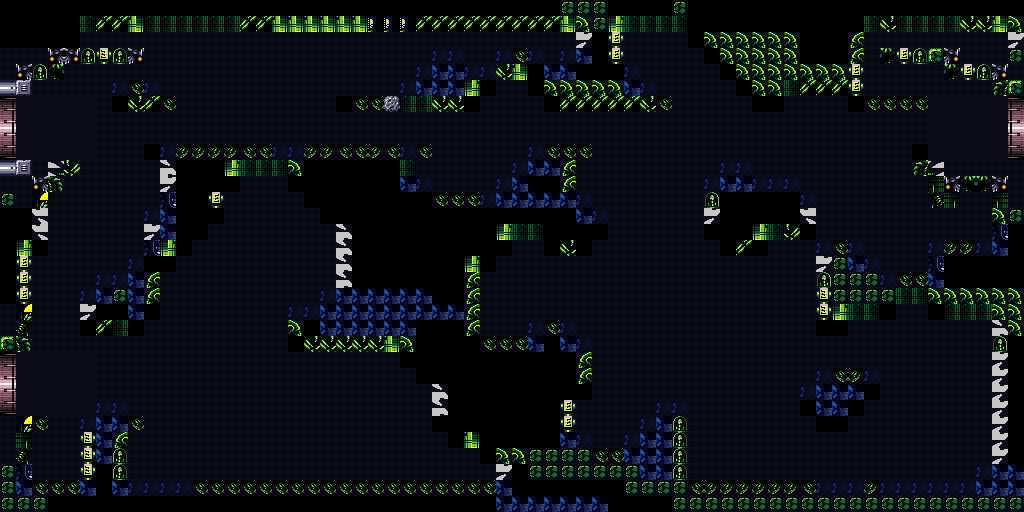
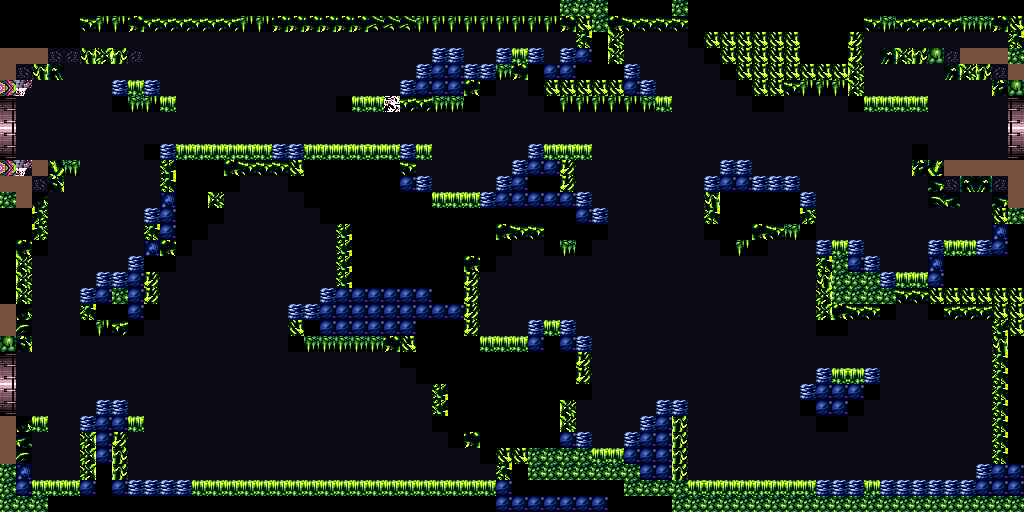
fix kraid room rendering

diff --git a/desktopApp/src/jvmMain/kotlin/com/supermetroid/editor/ui/MapCanvas.kt b/desktopApp/src/jvmMain/kotlin/com/supermetroid/editor/ui/MapCanvas.kt
@@ -292,6 +292,7 @@ fun MapCanvas(
     onRoomSelected: ((RoomInfo) -> Unit)? = null,
     roomKeyboardNavigationEnabled: Boolean = true,
     showItemNames: Boolean = true,
+    highlightItems: Boolean = true,
     showEnemyNames: Boolean = true,
     showFlatSlopeSurfaces: Boolean = true,
     modifier: Modifier = Modifier
@@ -895,10 +896,10 @@ fun MapCanvas(
                                 }
                             }
 
-                            val compositeImage = remember(data, activeOverlays.toSet(), showGrid, scrollDataForOverlay?.contentHashCode(), layer2Data?.contentHashCode(), customItems, showItemNames, showEnemyNames, showFlatSlopeSurfaces) {
+                            val compositeImage = remember(data, activeOverlays.toSet(), showGrid, scrollDataForOverlay?.contentHashCode(), layer2Data?.contentHashCode(), customItems, showItemNames, highlightItems, showEnemyNames, showFlatSlopeSurfaces) {
                                 buildCompositeImage(data, activeOverlays, showGrid, scrollDataForOverlay, rWidthScreens, rHeightScreens,
                                     layer2Pixels = layer2Data, customItems = customItems, showItemNames = showItemNames,
-                                    showEnemyNames = showEnemyNames, showFlatSlopeSurfaces = showFlatSlopeSurfaces)
+                                    highlightItems = highlightItems, showEnemyNames = showEnemyNames, showFlatSlopeSurfaces = showFlatSlopeSurfaces)
                             }
 
                             val hScrollState = rememberScrollState()
@@ -963,7 +964,7 @@ fun MapCanvas(
                             }
 
                             // Re-render from working data (reacts to editVersion from EditorState)
-                            val compositeForEdit = remember(data, editVersion, activeOverlays.toSet(), showGrid, scrollDataForOverlay?.contentHashCode(), scrollVer, layer2Data?.contentHashCode(), customItems, showItemNames, showEnemyNames, showFlatSlopeSurfaces) {
+                            val compositeForEdit = remember(data, editVersion, activeOverlays.toSet(), showGrid, scrollDataForOverlay?.contentHashCode(), scrollVer, layer2Data?.contentHashCode(), customItems, showItemNames, highlightItems, showEnemyNames, showFlatSlopeSurfaces) {
                                 val es = editorState
                                 if (es != null && es.workingLevelData != null) {
                                     val rh = roomHeader
@@ -971,7 +972,7 @@ fun MapCanvas(
                                         val r = MapRenderer(romParser, es.tileGraphics).renderRoomFromLevelData(rh, es.workingLevelData!!, es.workingPlms, es.workingEnemies)
                                         if (r != null) return@remember buildCompositeImage(r, activeOverlays, showGrid, scrollDataForOverlay, rWidthScreens, rHeightScreens,
                                             layer2Pixels = layer2Data, customItems = customItems, showItemNames = showItemNames,
-                                            showEnemyNames = showEnemyNames, showFlatSlopeSurfaces = showFlatSlopeSurfaces)
+                                            highlightItems = highlightItems, showEnemyNames = showEnemyNames, showFlatSlopeSurfaces = showFlatSlopeSurfaces)
                                     }
                                 }
                                 compositeImage

diff --git a/shared/src/commonMain/kotlin/com/supermetroid/editor/rom/TileGraphics.kt b/shared/src/commonMain/kotlin/com/supermetroid/editor/rom/TileGraphics.kt
@@ -144,9 +144,9 @@ class TileGraphics(private val romParser: RomParser) {
      *     These tilesets' variable tiles 0-639 contain data that doesn't render
      *     cleanly as standard 4bpp — this is a known limitation shared by SMILE.
      */
-    fun loadTileset(tilesetId: Int, @Suppress("UNUSED_PARAMETER") noCre: Boolean = false): Boolean {
+    fun loadTileset(tilesetId: Int, @Suppress("unused") noCre: Boolean = false): Boolean {
         if (tilesetId !in 0 until NUM_TILESETS) return false
-        if (tilesetId == cachedTilesetId && rawTileData != null) return true
+        if (tilesetId == cachedTilesetId && rawTileData != null && !noCre) return true
 
         val entry = romParser.graphicsCatalog.entry(tilesetId) ?: return false
         val tileTablePtr = entry.tileTablePtr
@@ -183,14 +183,26 @@ class TileGraphics(private val romParser: RomParser) {
         }
 
         // Graphics: variable tiles first, CRE overlays at offset 0x5000 (tiles 640-1023).
-        // Per SMILE source (UGraphics.bas line 120-123): CRE is always placed at 0x5000,
-        // even for tilesets with 32K variable GFX (Ceres 17-20). The extra variable data
-        // beyond 0x5000 is overwritten by CRE tiles.
-        // Exception: tileset 27 (Kraid) places CRE at 0x8000 (effectively no CRE overlay).
+        //
+        // Skip CRE overlay when:
+        //  - Variable GFX fills all 1024 tile slots (>= 32K) AND the tile table
+        //    doesn't cover all metatiles (CRE metatile defs are prepended and may
+        //    reference tiles 640+, e.g. tileset 26 / Kraid's room)
+        //  - Tileset 27 (Kraid sprite), per SMILE source
+        //  - Caller explicitly requested noCre
+        //
+        // Ceres tilesets (17-20) also have 32K GFX but their tile tables cover all
+        // 1024 metatiles and reference only tiles 0-639, so CRE overlay is harmless
+        // (it overwrites unreferenced tile slots). The varTableCoversAll check
+        // ensures CRE is still applied for those tilesets.
+        val varGfxFull = varGfx.size >= TOTAL_TILES * BYTES_PER_TILE
+        val skipCre = noCre ||
+            tilesetId == KRAID_TILESET ||
+            (varGfxFull && !varTableCoversAll)
         val combinedGfx = ByteArray(TOTAL_TILES * BYTES_PER_TILE)
         val varCopyLen = minOf(varGfx.size, combinedGfx.size)
         System.arraycopy(varGfx, 0, combinedGfx, 0, varCopyLen)
-        if (tilesetId != KRAID_TILESET) {
+        if (!skipCre) {
             val creGfx = romParser.decompressLZ2(romParser.graphicsCatalog.creGfxPtr)
             val copyLen = minOf(creGfx.size, combinedGfx.size - CRE_GFX_OFFSET)
             if (copyLen > 0) {
@@ -198,7 +210,7 @@ class TileGraphics(private val romParser: RomParser) {
             }
         }
         rawTileData = combinedGfx
-        cachedHasCre = tilesetId != KRAID_TILESET
+        cachedHasCre = !skipCre
 
         cachedTilesetId = tilesetId
         return true

diff --git a/desktopApp/src/jvmMain/kotlin/com/supermetroid/editor/Main.kt b/desktopApp/src/jvmMain/kotlin/com/supermetroid/editor/Main.kt
@@ -215,6 +215,7 @@ fun main() = application {
     
     val appSettings = remember { AppConfig.load() }
     var showRoomItemNames by remember { mutableStateOf(appSettings.roomEditorShowItemNames) }
+    var highlightRoomItems by remember { mutableStateOf(appSettings.roomEditorHighlightItems) }
     var showRoomEnemyNames by remember { mutableStateOf(appSettings.roomEditorShowEnemyNames) }
     var showRoomFlatSlopeSurfaces by remember { mutableStateOf(appSettings.roomEditorShowFlatSlopeSurfaces) }
     val windowState = rememberWindowState(
@@ -434,11 +435,16 @@ fun main() = application {
                                     emulatorWorkspaceState = emulatorWorkspaceState,
                                     editorState = editorState,
                                     showRoomItemNames = showRoomItemNames,
+                                    highlightRoomItems = highlightRoomItems,
                                     showRoomEnemyNames = showRoomEnemyNames,
                                     showRoomFlatSlopeSurfaces = showRoomFlatSlopeSurfaces,
                                     onShowRoomItemNamesChange = { enabled ->
                                         showRoomItemNames = enabled
                                         AppConfig.update { copy(roomEditorShowItemNames = enabled) }
+                                    },
+                                    onHighlightRoomItemsChange = { enabled ->
+                                        highlightRoomItems = enabled
+                                        AppConfig.update { copy(roomEditorHighlightItems = enabled) }
                                     },
                                     onShowRoomEnemyNamesChange = { enabled ->
                                         showRoomEnemyNames = enabled
@@ -792,6 +798,7 @@ fun main() = application {
                                             },
                                             roomKeyboardNavigationEnabled = leftTab == TAB_ROOMS,
                                             showItemNames = showRoomItemNames,
+                                            highlightItems = highlightRoomItems,
                                             showEnemyNames = showRoomEnemyNames,
                                             showFlatSlopeSurfaces = showRoomFlatSlopeSurfaces,
                                             modifier = Modifier.fillMaxSize()

diff --git a/desktopApp/src/jvmMain/kotlin/com/supermetroid/editor/ui/SettingsPanel.kt b/desktopApp/src/jvmMain/kotlin/com/supermetroid/editor/ui/SettingsPanel.kt
@@ -45,9 +45,11 @@ fun SettingsPopup(
     emulatorWorkspaceState: EmulatorWorkspaceState,
     editorState: EditorState? = null,
     showRoomItemNames: Boolean = true,
+    highlightRoomItems: Boolean = true,
     showRoomEnemyNames: Boolean = true,
     showRoomFlatSlopeSurfaces: Boolean = true,
     onShowRoomItemNamesChange: (Boolean) -> Unit = {},
+    onHighlightRoomItemsChange: (Boolean) -> Unit = {},
     onShowRoomEnemyNamesChange: (Boolean) -> Unit = {},
     onShowRoomFlatSlopeSurfacesChange: (Boolean) -> Unit = {},
 ) {
@@ -117,9 +119,11 @@ fun SettingsPopup(
                         },
                         editorState = editorState,
                         showRoomItemNames = showRoomItemNames,
+                        highlightRoomItems = highlightRoomItems,
                         showRoomEnemyNames = showRoomEnemyNames,
                         showRoomFlatSlopeSurfaces = showRoomFlatSlopeSurfaces,
                         onShowRoomItemNamesChange = onShowRoomItemNamesChange,
+                        onHighlightRoomItemsChange = onHighlightRoomItemsChange,
                         onShowRoomEnemyNamesChange = onShowRoomEnemyNamesChange,
                         onShowRoomFlatSlopeSurfacesChange = onShowRoomFlatSlopeSurfacesChange,
                     )
@@ -138,9 +142,11 @@ private fun GeneralSettingsTab(
     onFontSizeChange: (FontSize) -> Unit,
     editorState: EditorState? = null,
     showRoomItemNames: Boolean,
+    highlightRoomItems: Boolean,
     showRoomEnemyNames: Boolean,
     showRoomFlatSlopeSurfaces: Boolean,
     onShowRoomItemNamesChange: (Boolean) -> Unit,
+    onHighlightRoomItemsChange: (Boolean) -> Unit,
     onShowRoomEnemyNamesChange: (Boolean) -> Unit,
     onShowRoomFlatSlopeSurfacesChange: (Boolean) -> Unit,
 ) {
@@ -229,6 +235,13 @@ private fun GeneralSettingsTab(
         description = "Draw item name badges under room item icons.",
         checked = showRoomItemNames,
         onCheckedChange = onShowRoomItemNamesChange,
+        fontSize = currentFontSize,
+    )
+    SettingsCheckboxRow(
+        label = "Highlight items",
+        description = "Draw a bordered background behind item icons.",
+        checked = highlightRoomItems,
+        onCheckedChange = onHighlightRoomItemsChange,
         fontSize = currentFontSize,
     )
     SettingsCheckboxRow(

diff --git a/cli/src/jvmMain/kotlin/com/supermetroid/editor/cli/CliMain.kt b/cli/src/jvmMain/kotlin/com/supermetroid/editor/cli/CliMain.kt
@@ -165,16 +165,18 @@ private fun cmdExport(
 private fun cmdRenderRooms(parser: RomParser, args: List<String>) {
     var outPath: String? = null
     var showItems = false
+    var highlightItems = false
     val iter = args.iterator()
     while (iter.hasNext()) {
         val arg = iter.next()
         when {
             (arg == "-o" || arg == "--output") && iter.hasNext() -> outPath = iter.next()
             arg == "--items" -> showItems = true
+            arg == "--highlight-items" -> highlightItems = true
         }
     }
     if (outPath == null) {
-        System.err.println("Usage: render-rooms -o <output.zip> [--items]")
+        System.err.println("Usage: render-rooms -o <output.zip> [--items] [--highlight-items]")
         exitProcess(1)
     }
 
@@ -183,7 +185,7 @@ private fun cmdRenderRooms(parser: RomParser, args: List<String>) {
 
     val exporter = RoomMapExporter(parser)
     val result = FileOutputStream(outFile).use { fos ->
-        exporter.renderToZip(fos, showItems = showItems)
+        exporter.renderToZip(fos, showItems = showItems, highlightItems = highlightItems)
     }
 
     System.err.println("Rendered ${result.renderedCount} rooms (${result.failedCount} failed) → ${outFile.absolutePath}")
@@ -369,9 +371,10 @@ Commands:
   room <id|handle>   Export single room with full collision grid
   graph              Export navigation graph (nodes + edges)
   export -o <dir>    Export everything: rooms.json, nav_graph.json, rooms/*.json
-  render-rooms -o <zip> [--items]
+  render-rooms -o <zip> [--items] [--highlight-items]
                      Render every room map to PNG and bundle into a ZIP with rooms.json
-                     --items overlays visible item icons (Energy Tank, Screw Attack, etc.)
+                     --items overlays item icons (Energy Tank, Screw Attack, etc.)
+                     --highlight-items adds a bordered background behind item icons
   patches            List built-in patch IDs and headless support status
   schemas            List supported config patch schemas
   schema <id|type>   Show one config patch schema

diff --git a/shared/src/jvmMain/kotlin/com/supermetroid/editor/rom/RoomMapExporter.kt b/shared/src/jvmMain/kotlin/com/supermetroid/editor/rom/RoomMapExporter.kt
@@ -100,6 +100,7 @@ class RoomMapExporter(private val parser: RomParser) {
         output: OutputStream,
         roomInfos: List<RoomInfo> = parser.roomCatalog.rooms,
         showItems: Boolean = false,
+        highlightItems: Boolean = false,
     ): RoomMapExportResult {
         val renderer = MapRenderer(parser)
         val metadata = mutableListOf<RoomMapMetadata>()
@@ -137,7 +138,7 @@ class RoomMapExporter(private val parser: RomParser) {
 
                 if (showItems) {
                     val allPlms = parser.getAllPlmEntriesForRoom(roomId)
-                    drawItemIcons(img, allPlms, spriteSheet)
+                    drawItemIcons(img, allPlms, spriteSheet, highlightItems)
                 }
 
                 val filename = "${roomId.toString(16).lowercase()}.png"
@@ -160,6 +161,7 @@ class RoomMapExporter(private val parser: RomParser) {
         img: BufferedImage,
         plms: List<RomParser.PlmEntry>,
         spriteSheet: BufferedImage?,
+        highlight: Boolean,
     ) {
         val g2 = img.createGraphics()
         g2.setRenderingHint(RenderingHints.KEY_ANTIALIASING, RenderingHints.VALUE_ANTIALIAS_ON)
@@ -172,11 +174,13 @@ class RoomMapExporter(private val parser: RomParser) {
             val cy = plm.y * 16 + 8
 
             if (spriteSheet != null && sprite != null) {
-                g2.color = Color(0, 0, 0, 160)
-                g2.fillRoundRect(cx - 10, cy - 10, 20, 20, 4, 4)
-                g2.color = itemColor
-                g2.stroke = BasicStroke(1f)
-                g2.drawRoundRect(cx - 10, cy - 10, 20, 20, 4, 4)
+                if (highlight) {
+                    g2.color = Color(0, 0, 0, 160)
+                    g2.fillRoundRect(cx - 10, cy - 10, 20, 20, 4, 4)
+                    g2.color = itemColor
+                    g2.stroke = BasicStroke(1f)
+                    g2.drawRoundRect(cx - 10, cy - 10, 20, 20, 4, 4)
+                }
                 g2.drawImage(
                     spriteSheet,
                     cx - 8, cy - 8, cx + 8, cy + 8,

diff --git a/desktopApp/src/jvmMain/kotlin/com/supermetroid/editor/ui/RoomCompositeRenderer.kt b/desktopApp/src/jvmMain/kotlin/com/supermetroid/editor/ui/RoomCompositeRenderer.kt
@@ -246,6 +246,7 @@ internal fun buildCompositeImage(
     layer2Pixels: IntArray? = null,
     customItems: List<CustomItemDef> = emptyList(),
     showItemNames: Boolean = true,
+    highlightItems: Boolean = true,
     showEnemyNames: Boolean = true,
     showFlatSlopeSurfaces: Boolean = true,
 ): BufferedImage {
@@ -501,10 +502,12 @@ internal fun buildCompositeImage(
             if (isItem) {
                 val sprite = itemDef?.sprite
                 if (itemSpriteSheet != null && sprite != null) {
-                    g2.color = java.awt.Color(0, 0, 0, 160)
-                    g2.fillRoundRect(cx - 10, cy - 10, 20, 20, 4, 4)
-                    g2.color = itemColor
-                    g2.drawRoundRect(cx - 10, cy - 10, 20, 20, 4, 4)
+                    if (highlightItems) {
+                        g2.color = java.awt.Color(0, 0, 0, 160)
+                        g2.fillRoundRect(cx - 10, cy - 10, 20, 20, 4, 4)
+                        g2.color = itemColor
+                        g2.drawRoundRect(cx - 10, cy - 10, 20, 20, 4, 4)
+                    }
                     g2.drawImage(
                         itemSpriteSheet,
                         cx - 8,

diff --git a/smedit-service/src/jvmMain/kotlin/com/supermetroid/editor/service/SmeditServiceMain.kt b/smedit-service/src/jvmMain/kotlin/com/supermetroid/editor/service/SmeditServiceMain.kt
@@ -370,6 +370,7 @@ fun Application.smeditServiceModule(
 
         post("/rooms/render") {
             val showItems = call.request.queryParameters["items"]?.lowercase() in listOf("true", "1", "yes")
+            val highlightItems = call.request.queryParameters["highlightItems"]?.lowercase() in listOf("true", "1", "yes")
             val romBytes = call.receiveRomBytes()
             val parser = RomParser(romBytes)
             require(parser.roomCatalog.readable) {
@@ -377,7 +378,7 @@ fun Application.smeditServiceModule(
             }
             val exporter = RoomMapExporter(parser)
             val baos = ByteArrayOutputStream()
-            val result = exporter.renderToZip(baos, showItems = showItems)
+            val result = exporter.renderToZip(baos, showItems = showItems, highlightItems = highlightItems)
             call.response.header(
                 HttpHeaders.ContentDisposition,
                 ContentDisposition.Attachment.withParameter(

diff --git a/shared/src/commonMain/kotlin/com/supermetroid/editor/data/AppConfig.kt b/shared/src/commonMain/kotlin/com/supermetroid/editor/data/AppConfig.kt
@@ -52,6 +52,7 @@ data class AppSettings(
     val emulatorWindowX: Float = 40f,
     val emulatorWindowY: Float = 40f,
     val roomEditorShowItemNames: Boolean = true,
+    val roomEditorHighlightItems: Boolean = true,
     val roomEditorShowEnemyNames: Boolean = true,
     val roomEditorShowFlatSlopeSurfaces: Boolean = true,
 )
